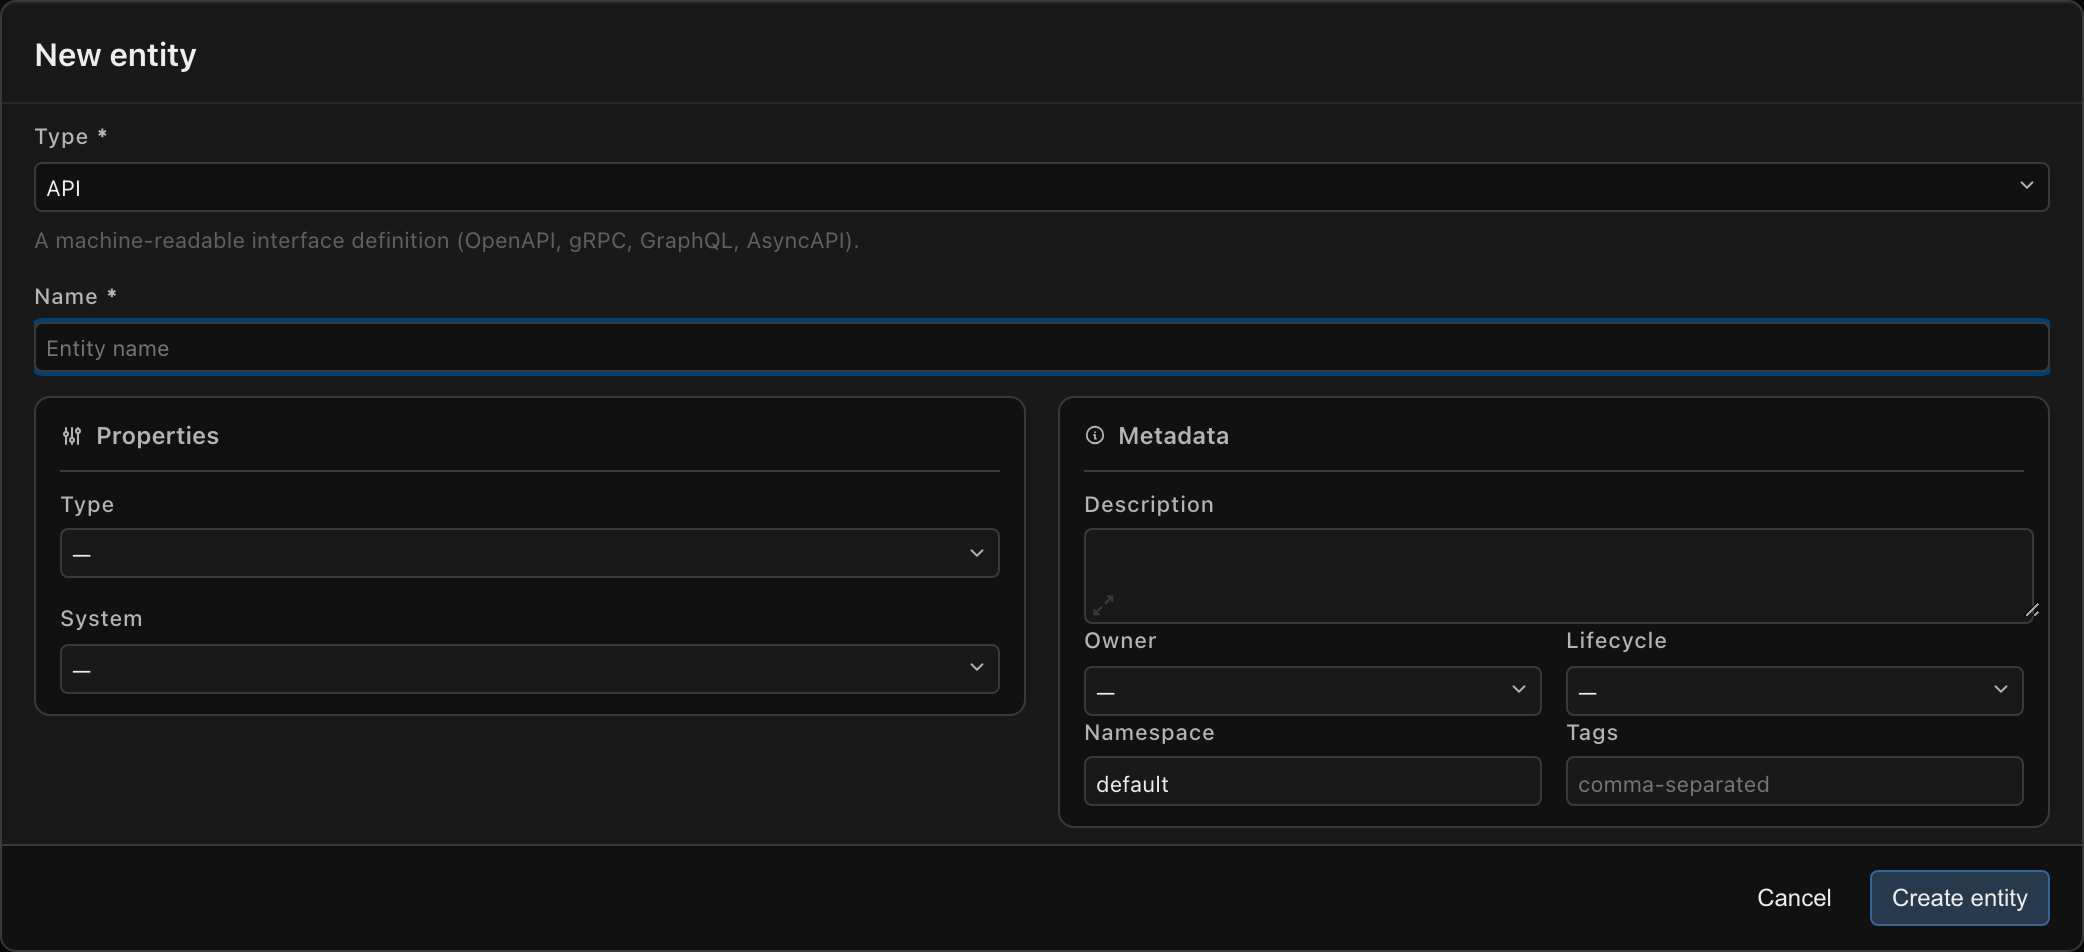
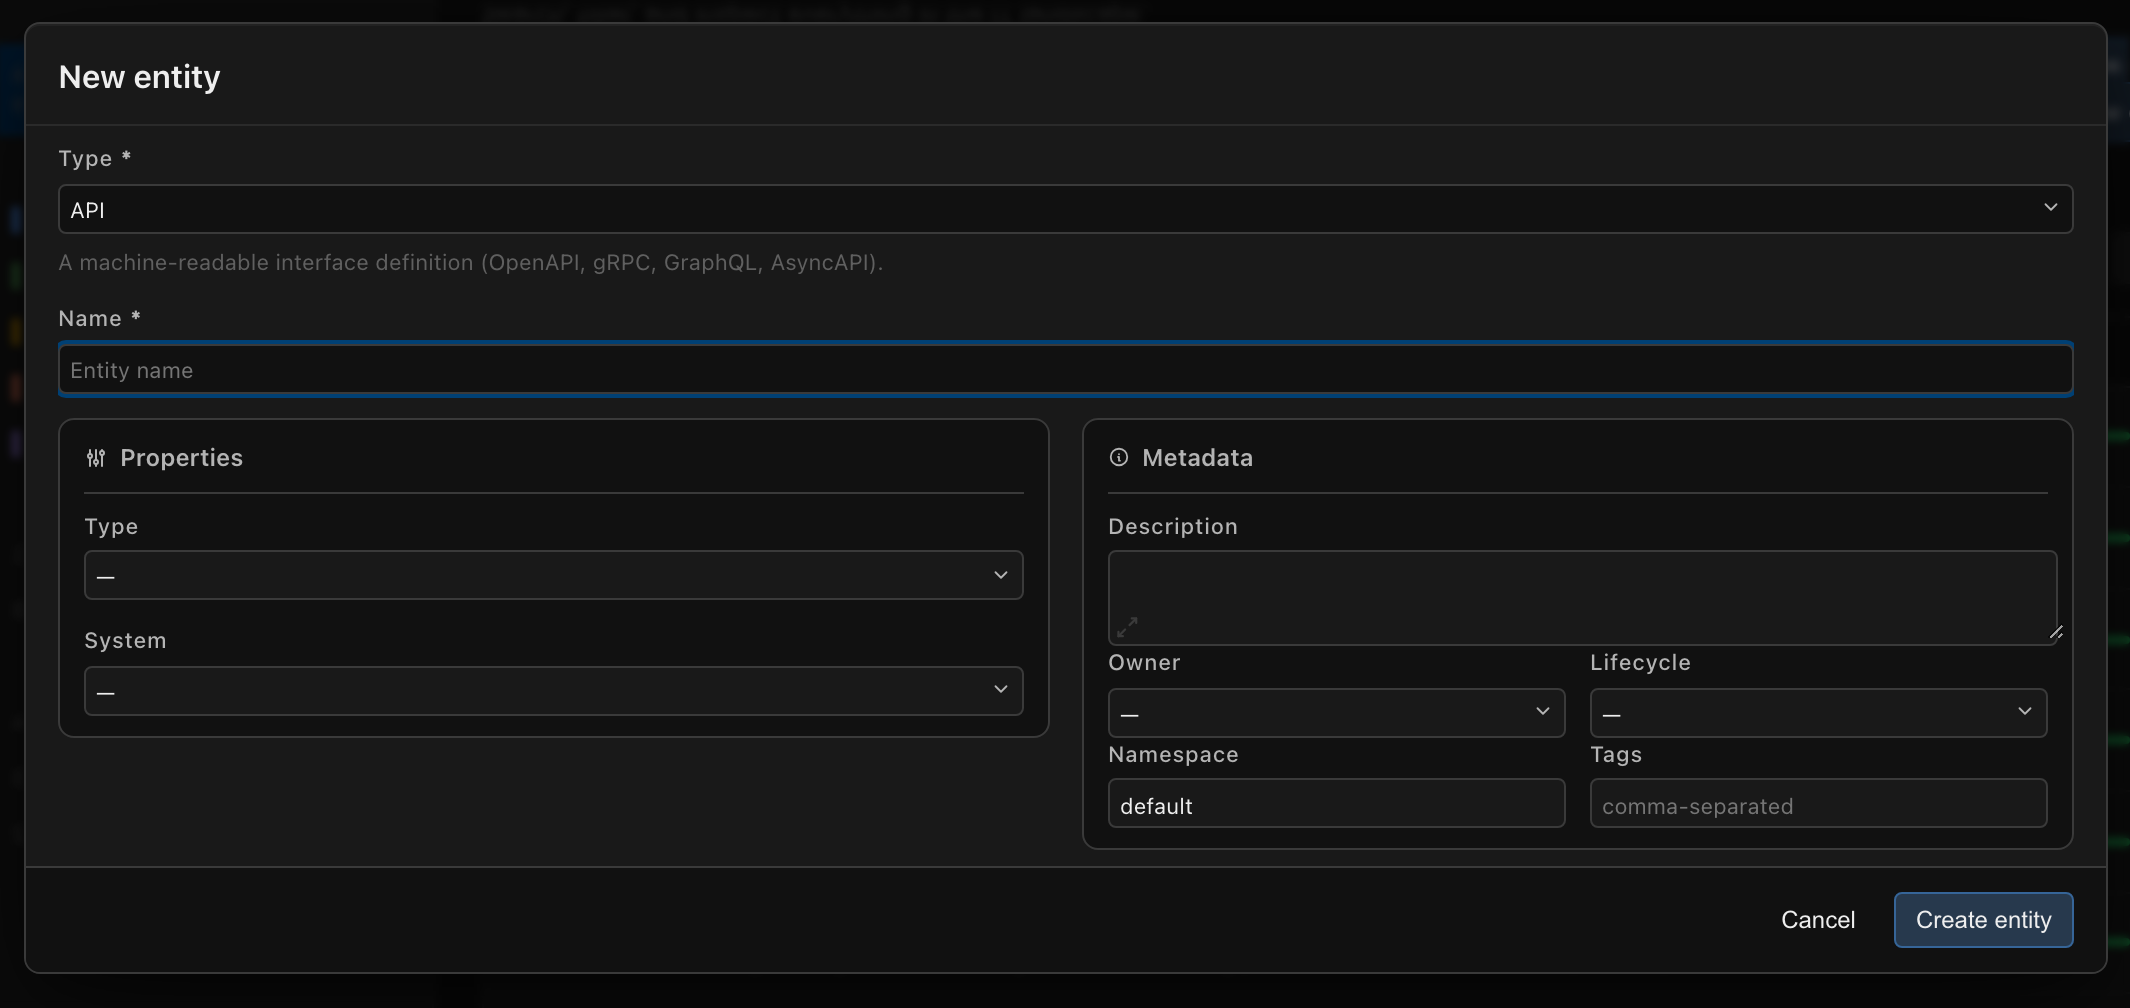
Minor fixes

diff --git a/docs-site/scripts/generate-screenshots.ts b/docs-site/scripts/generate-screenshots.ts
@@ -36,6 +36,7 @@ export type ScreenshotConfig = {
   name: string;
   viewport?: Viewport;
   selector?: string;
+  selectorGap?: number;
   fullPage?: boolean;
   setup: (context: ScreenshotContext) => Promise<void>;
 };
@@ -269,11 +270,24 @@ const captureScreenshot = async (page: Page, config: ScreenshotConfig) => {
   await mkdir(dirname(screenshotPath), { recursive: true });
 
   if (config.selector != null) {
-    await page.locator(config.selector).screenshot({
-      animations: 'disabled',
-      caret: 'hide',
-      path: screenshotPath
-    });
+    const gap = config.selectorGap ?? 16;
+    const element = page.locator(config.selector);
+    const box = await element.boundingBox();
+    if (box != null) {
+      await page.screenshot({
+        animations: 'disabled',
+        caret: 'hide',
+        clip: {
+          x: Math.max(0, box.x - gap),
+          y: Math.max(0, box.y - gap),
+          width: box.width + gap * 2,
+          height: box.height + gap * 2
+        },
+        path: screenshotPath
+      });
+    } else {
+      await element.screenshot({ animations: 'disabled', caret: 'hide', path: screenshotPath });
+    }
     return screenshotPath;
   }
 

diff --git a/docs-site/src/css/custom.css b/docs-site/src/css/custom.css
@@ -408,9 +408,10 @@ article code {
 }
 
 article img {
+  display: block;
   max-width: 100%;
-  border-radius: var(--r-md);
-  border: 1px solid var(--border);
+  width: auto;
+  border: 1px solid var(--border-subtle);
   box-shadow: 0 2px 12px oklch(0 0 0 / 0.18);
 }
 